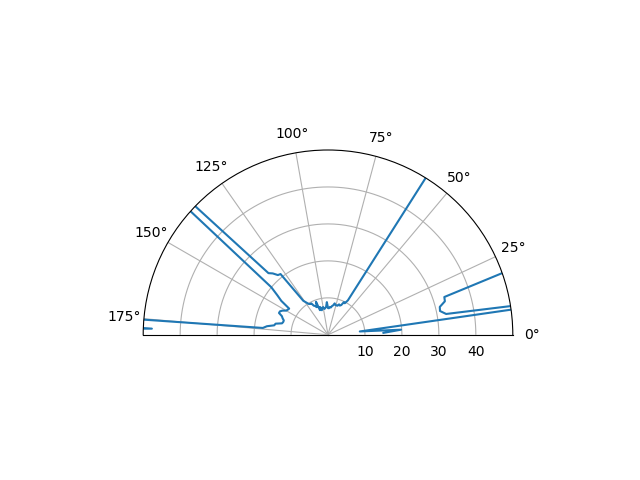
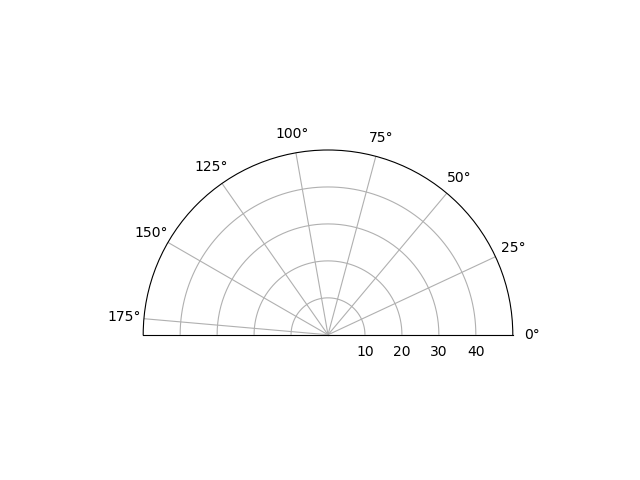
retornando imagem

diff --git a/templates/index_image.html b/templates/index_image.html
@@ -2,7 +2,7 @@
 <html>
 <body>
 
-<img src="/static/images/grafico.png">
+<img src="static/images/grafico.png">
 
 </body>
 </html>

diff --git a/plot_graph.py b/plot_graph.py
@@ -6,6 +6,7 @@ import matplotlib.pyplot as plt
 import random
 from operator import itemgetter 
 import RPi.GPIO as GPIO
+import os
 
 def get_graph():
     sensor = HC_SR04()
@@ -36,7 +37,7 @@ def get_graph():
     graph.set_thetamin(0)
     graph.set_thetamax(180)
 
-
     GPIO.cleanup()
 
-    plt.savefig('grafico.png')
+    plt.savefig('static/images/grafico.png')
+    graph.clear()

diff --git a/application.py b/application.py
@@ -12,7 +12,7 @@ def main():
 	return "Vá para /mapa"
     
 @app.route("/mapa")
-def mapear():	
+def mapear():
 	get_graph()
 	return render_template("index_image.html")
 
